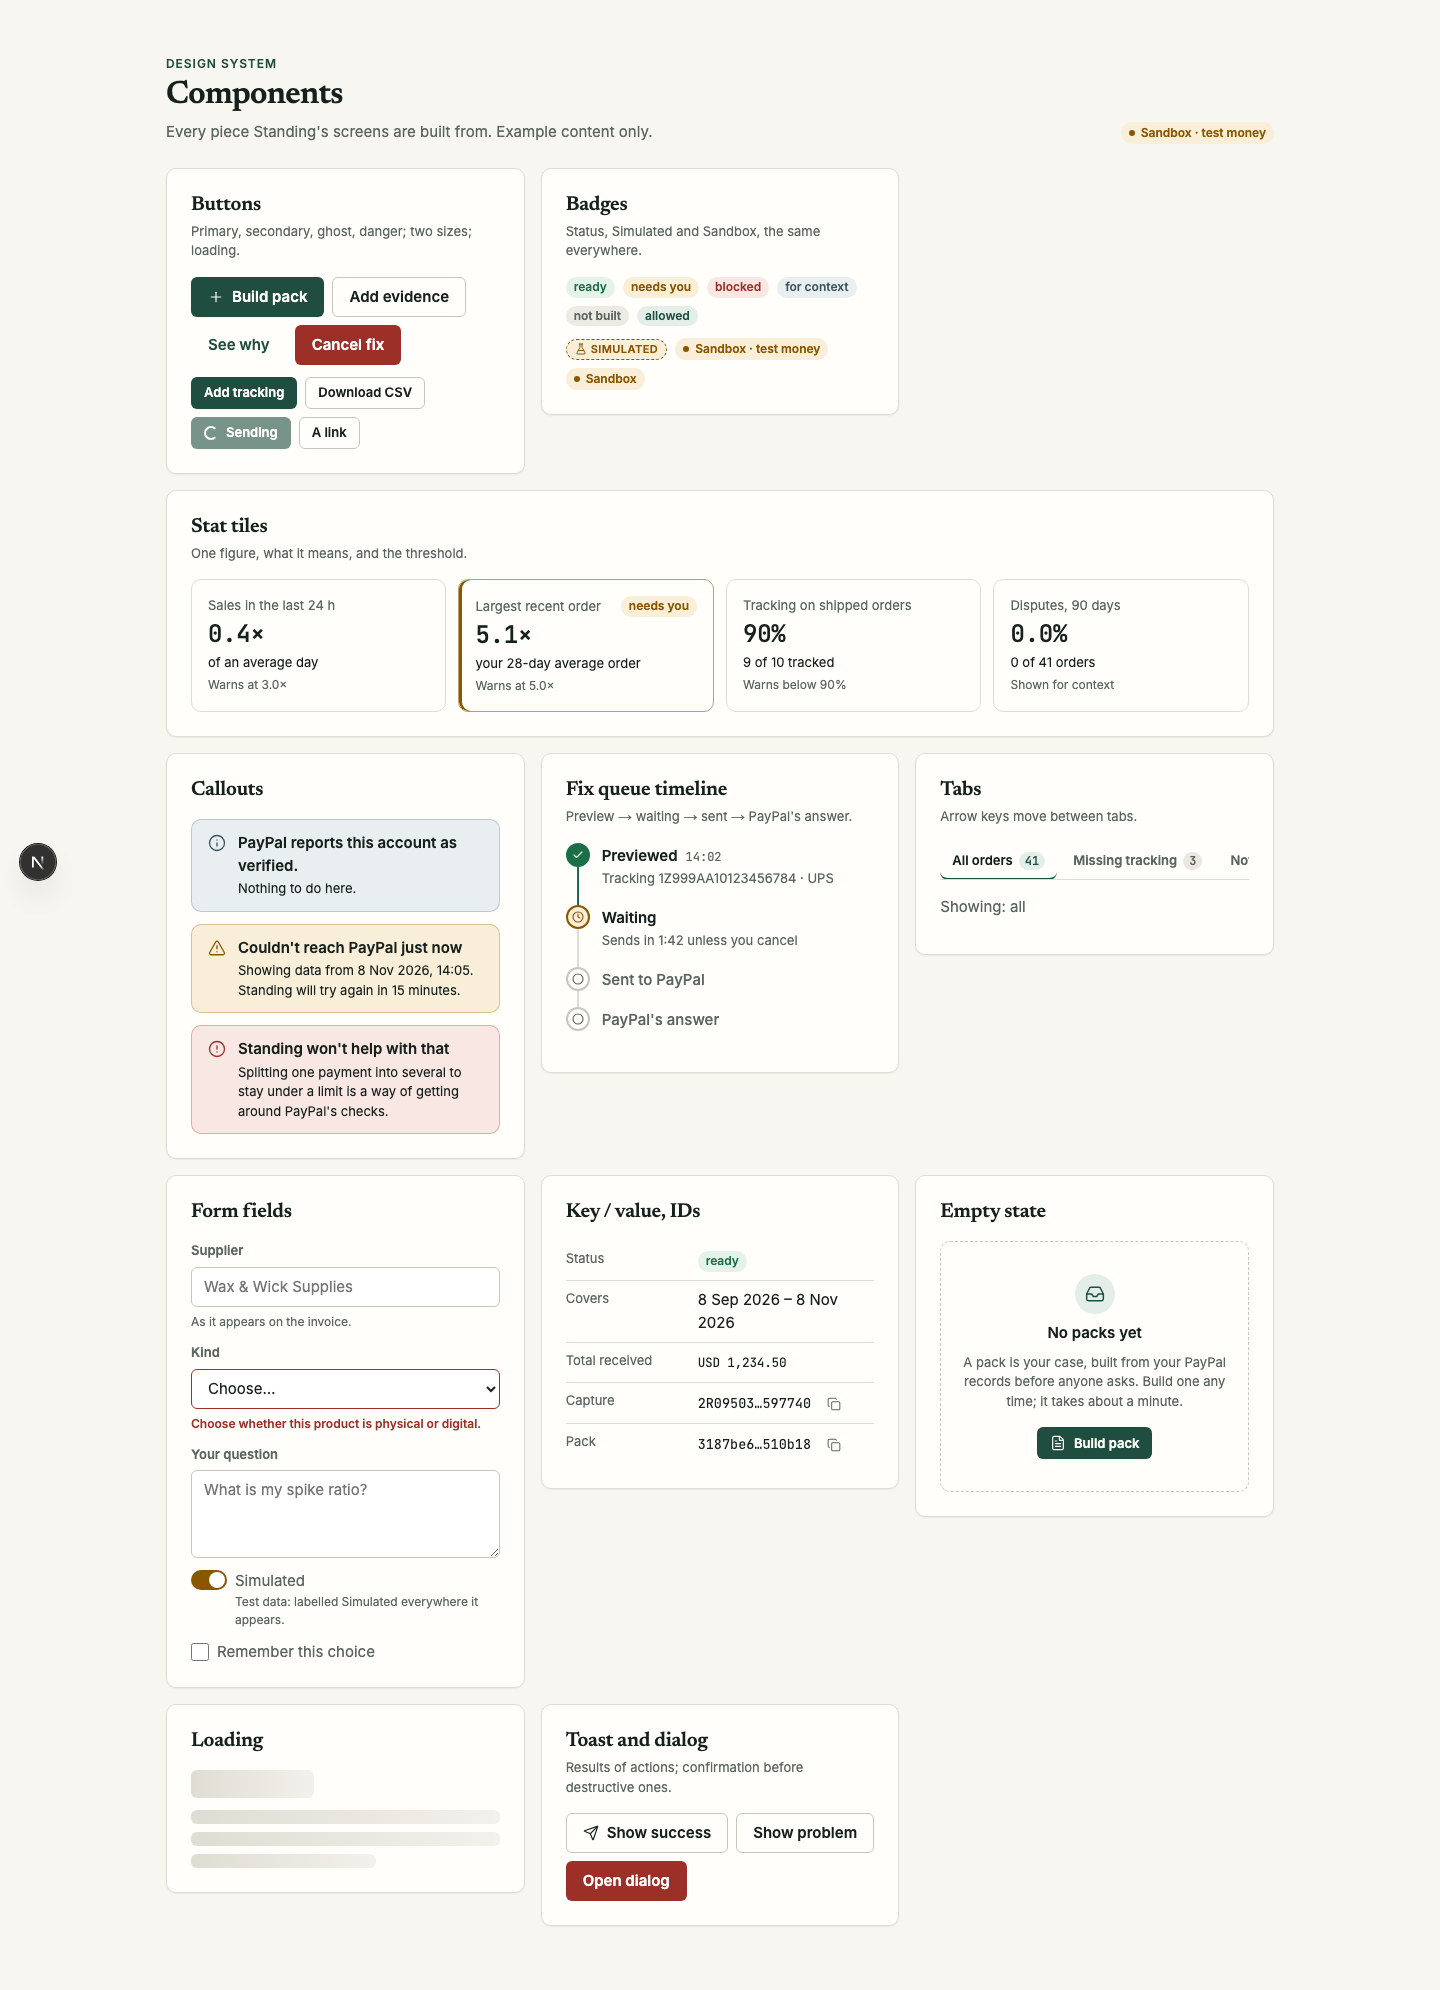
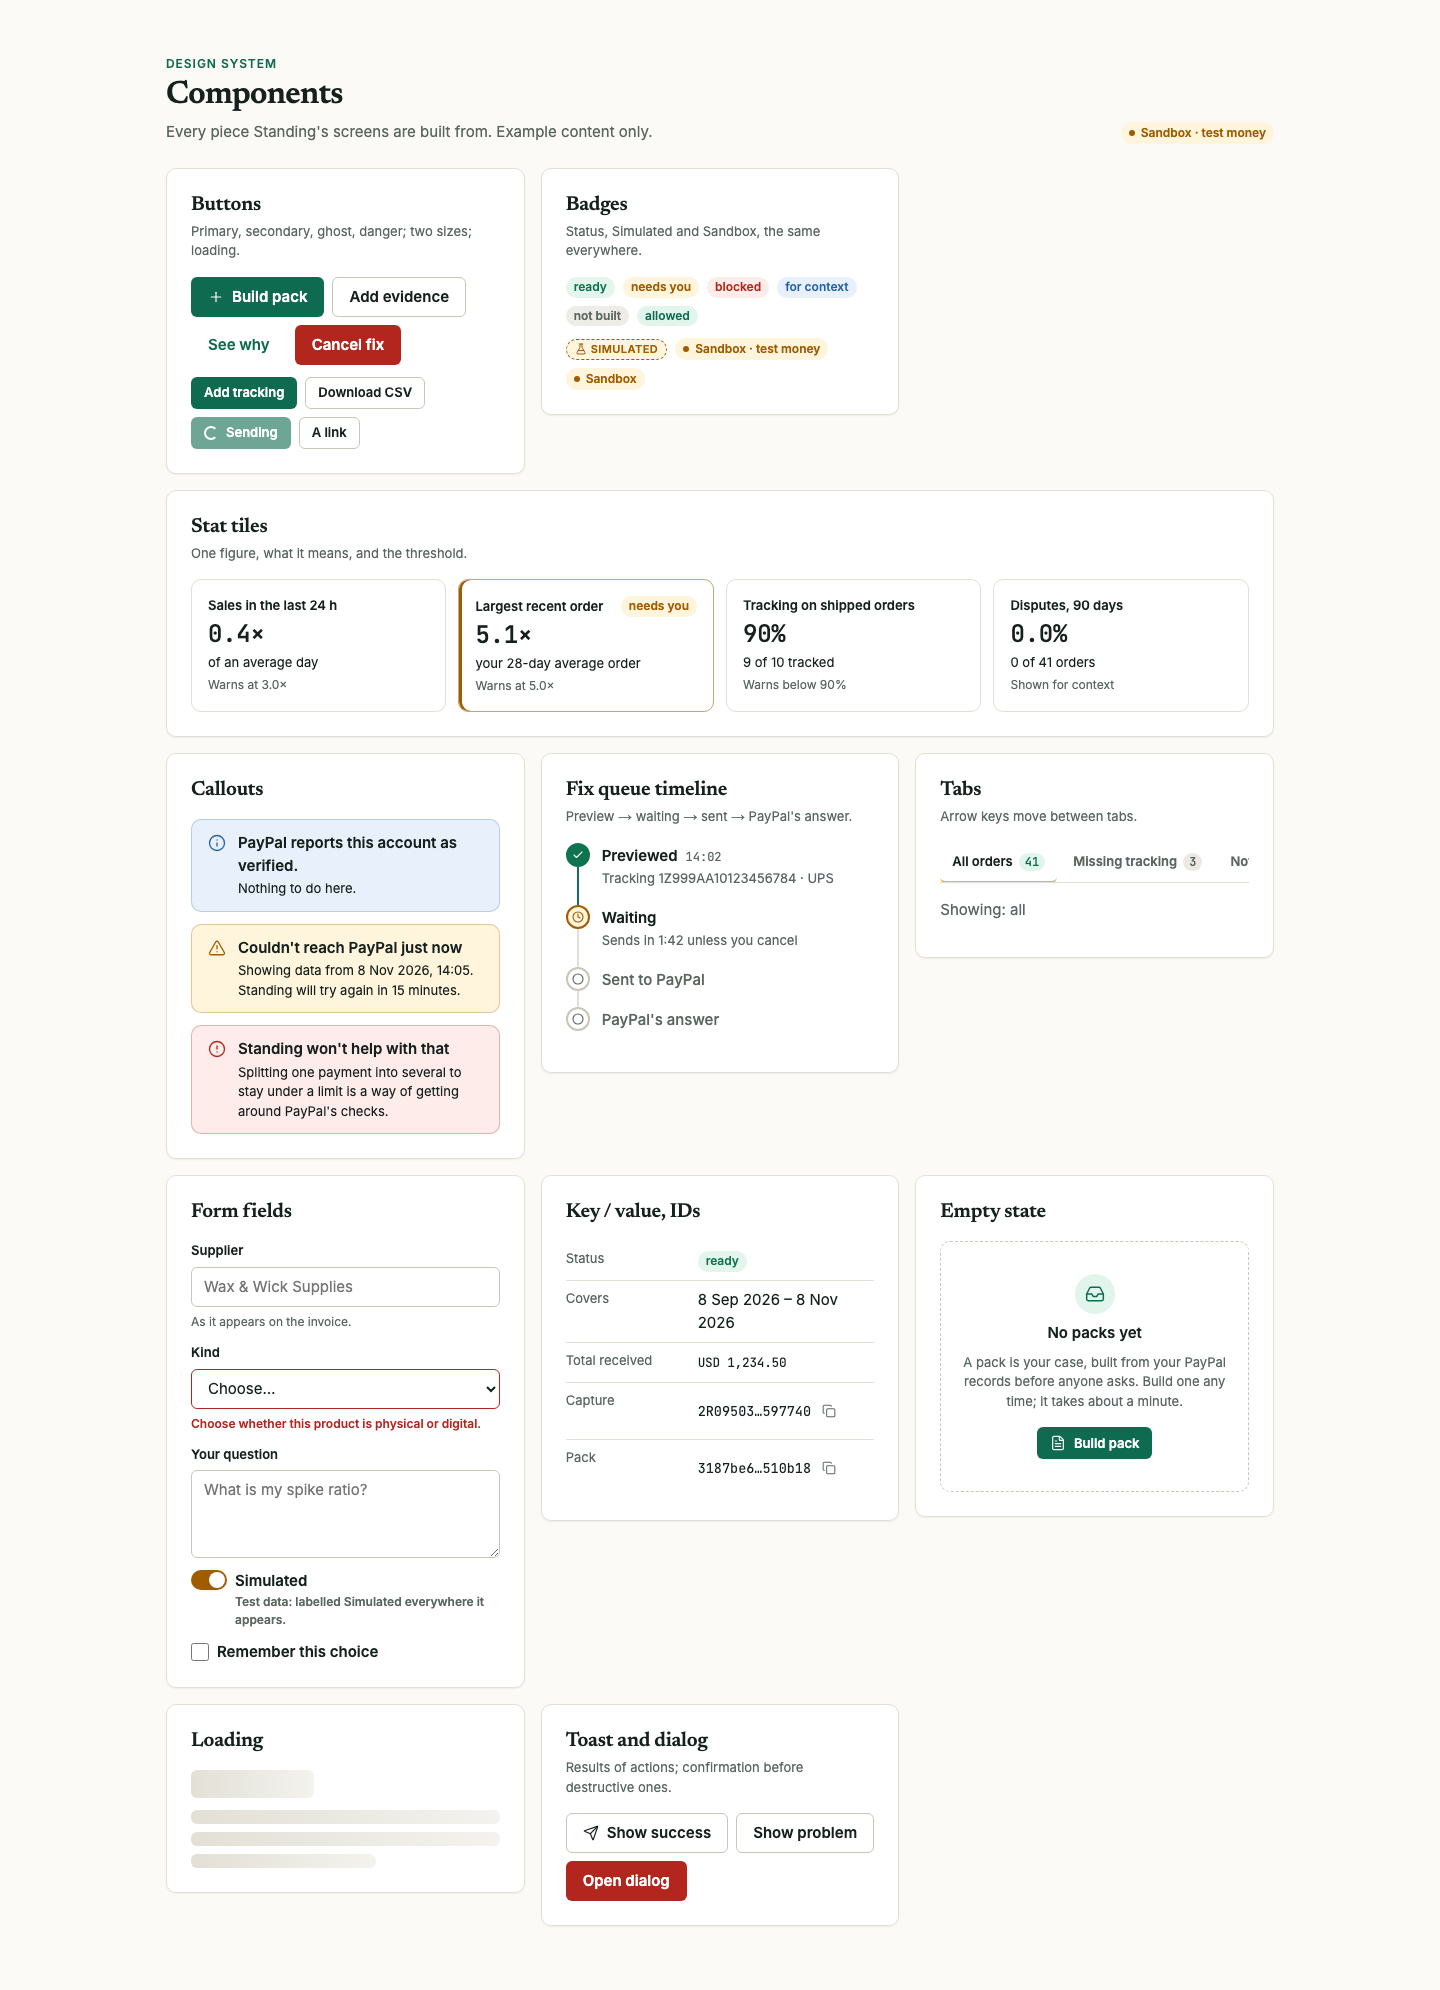
feat: livelier colour tokens (pine, mint, marigold highlight) with contrast tests

diff --git a/src/app/globals.css b/src/app/globals.css
@@ -2,25 +2,29 @@
   color-scheme: light dark;
 
   /* Colour roles. Each tone has a -bg partner; text on its -bg passes WCAG 2.2 AA (see tokens.test.ts). */
-  --bg: #f7f6f1;
-  --surface: #fffefb;
+  --bg: #fbfaf6;
+  --surface: #ffffff;
   --raised: #ffffff;
   --ink: #16201c;
   --muted: #5c6660;
-  --line: #dfddd3;
+  --line: #e2e0d6;
   --line-strong: #c9c6b9;
-  --accent: #1f4d3f;
-  --accent-ink: #fffefb;
-  --accent-bg: #e3eee9;
-  --ok: #1b6f47;
-  --ok-bg: #e4f2e9;
-  --warn: #8a5600;
-  --warn-bg: #f9efd9;
-  --bad: #9c2f27;
-  --bad-bg: #f9e7e3;
-  --info: #3d5560;
-  --info-bg: #e9eef0;
-  --focus: #1f4d3f;
+  --accent: #0f6b4f;
+  --accent-hover: #0b5a42;
+  --accent-ink: #ffffff;
+  --accent-bg: #e2f5ec;
+  /* Marigold, for small touches only (key-number underlines, one hero glow, the active tab marker). Never text. */
+  --highlight: #f2b33d;
+  --highlight-bg: #fff4dc;
+  --ok: #0f7350;
+  --ok-bg: #e3f5ec;
+  --warn: #a15c00;
+  --warn-bg: #fff4dc;
+  --bad: #b3261e;
+  --bad-bg: #fdecea;
+  --info: #2563a8;
+  --info-bg: #e8f0fb;
+  --focus: #0f6b4f;
 
   /* Spacing on a 4 px scale. */
   --s-1: 4px;
@@ -70,8 +74,11 @@
     --muted: #a0aaa4;
     --line: #2a3430;
     --line-strong: #3a4641;
-    --accent: #8fd1b5;
+    --accent: #5fd3a5;
+    --accent-hover: #86e0bd;
     --accent-ink: #101614;
+    --highlight: #f5c46b;
+    --highlight-bg: #2b2413;
     --accent-bg: #16302a;
     --ok: #7fd0a4;
     --ok-bg: #15281e;

diff --git a/src/lib/ui/tokens.test.ts b/src/lib/ui/tokens.test.ts
@@ -42,6 +42,10 @@ const PAIRS: [string, string, number][] = [
   ["accent", "surface", 4.5],
   ["accent", "accent-bg", 4.5],
   ["accent-ink", "accent", 4.5],
+  ["accent-ink", "accent-hover", 4.5], // primary button on hover
+  ["accent", "raised", 4.5],
+  ["ink", "highlight-bg", 4.5],
+  ["warn", "highlight-bg", 4.5],
   ["surface", "bad", 4.5], // danger button text
   ["ok", "ok-bg", 4.5],
   ["warn", "warn-bg", 4.5],
@@ -63,5 +67,14 @@ describe.each([
     expect(t[fg], `--${fg} missing`).toBeDefined();
     expect(t[bg], `--${bg} missing`).toBeDefined();
     expect(contrast(t[fg], t[bg])).toBeGreaterThanOrEqual(min);
+  });
+});
+
+// Marigold is decoration only (underlines, a glow, the active tab marker): it fails text contrast by design, so no
+// stylesheet may use it as a text colour.
+describe("highlight is never text", () => {
+  it.each(["globals.css", "ui.css", "site.css", "app.css"])("%s", (file) => {
+    const sheet = readFileSync(new URL(`../../app/${file}`, import.meta.url), "utf8");
+    expect(sheet).not.toMatch(/(^|[^-])color:\s*var\(--highlight\)/m);
   });
 });

diff --git a/src/lib/site/facts.ts b/src/lib/site/facts.ts
@@ -7,7 +7,7 @@ export const README_RESULTS = `${REPO}#what-has-been-tested`;
 export const LOGIN = "/api/auth/paypal/start";
 
 export const PROOF: { figure: string; label: string; href: string }[] = [
-  { figure: "537", label: "automated tests pass", href: `${REPO}/tree/main/src` },
+  { figure: "549", label: "automated tests pass", href: `${REPO}/tree/main/src` },
   { figure: "11/12", label: "risky products flagged on a held-out set we didn't tune", href: TESTS_URL },
   { figure: "8/8", label: "requests to dodge PayPal's checks refused (held-out)", href: TESTS_URL },
   { figure: "30/30", label: "live sandbox orders created and captured", href: README_RESULTS },

diff --git a/src/app/ui.css b/src/app/ui.css
@@ -32,7 +32,7 @@
   box-shadow: var(--shadow-1);
 }
 .ui-btn-primary:hover:not(:disabled) {
-  background: color-mix(in srgb, var(--accent) 88%, var(--ink));
+  background: var(--accent-hover);
 }
 .ui-btn-secondary {
   background: var(--surface);
@@ -483,7 +483,7 @@
 }
 .ui-tab[aria-selected="true"] {
   color: var(--ink);
-  border-bottom-color: var(--accent);
+  border-bottom-color: var(--highlight); /* marigold marker; the selected tab also turns ink and its count turns pine */
 }
 .ui-tab-count {
   font-family: var(--font-mono), ui-monospace, monospace;

diff --git a/src/app/layout.tsx b/src/app/layout.tsx
@@ -20,7 +20,7 @@ export const metadata: Metadata = {
 
 export const viewport: Viewport = {
   themeColor: [
-    { media: "(prefers-color-scheme: light)", color: "#f7f6f1" },
+    { media: "(prefers-color-scheme: light)", color: "#fbfaf6" },
     { media: "(prefers-color-scheme: dark)", color: "#101614" },
   ],
 };

diff --git a/docs/REDESIGN_BRIEF.md b/docs/REDESIGN_BRIEF.md
@@ -196,3 +196,32 @@ Loading shows skeletons with the final layout. Errors show per card. A new selle
 - Celvix, *SaaS Dashboard UX* (May 2026): job-to-be-done hierarchy, progressive disclosure, empty states. https://celvix-websites.pages.dev/blog/saas-dashboard-ux-design/
 - Goodface, *Custom SaaS dashboard design in 2026*: 5-second test, per-component error states, empty states. https://goodface.agency/insight/custom-saas-dashboard-design-guide/
 - Anthony Hobday, critiques of the Stripe and Linear websites. https://anthonyhobday.com/blog/20220810 · https://anthonyhobday.com/blog/20230119.html
+
+---
+
+## 7. Additions (8 Nov 2026)
+
+Same guardrails: no logic changes, no fabricated claims or third-party logos, honesty labels stay.
+
+### A. Livelier colours
+Light tokens: accent `#0f6b4f` (hover `#0b5a42`), accent-bg `#e2f5ec`, bg `#fbfaf6`, surface `#ffffff`; highlight
+`#f2b33d` with highlight-bg `#fff4dc` (small touches only: key-number underlines, one hero glow, the active tab marker;
+never body text); info `#2563a8`/`#e8f0fb`; ok `#0f7350`/`#e3f5ec`; warn `#a15c00`/`#fff4dc`; bad `#b3261e`/`#fdecea`.
+Dark: accent `#5fd3a5`, highlight `#f5c46b`; the rest of dark unchanged. Contrast stays WCAG AA (tokens.test.ts).
+
+### B. Landing page at a top fintech-brand standard
+Sections in order:
+1. sticky translucent header (blur on scroll): logo, How it works, Trust, GitHub, "Try the demo";
+2. hero: ~60px serif headline, the subhead, one button and a text link, the status line; a real dashboard screenshot
+   in a tilted window frame with a mint and marigold glow, plus two small floating cards cropped from real UI;
+3. a "Built on" strip of plain-text chips for the PayPal APIs used (no logos);
+4. proof numbers (large mono, labelled and linked, from one constants file);
+5. the problem in PayPal's own words: 3 quote cards with sources;
+6. How it works as a bento grid (Watch / Fix / Prove) with real UI crops;
+7. the spike tool in a highlighted card;
+8. a full-width dark pine band, "The AI never writes a number.", with the code-vs-AI comparison;
+9. safe fixes as the 4-step timeline;
+10. honest results with the held-out table, including the miss;
+11. FAQ accordion;
+12. final CTA band (mint-to-paper gradient), then the footer (Trust, Privacy, Terms, GitHub, MIT, not affiliated).
+Motion: fade-up on scroll and hover lift on cards only, respecting prefers-reduced-motion. Responsive to 390px.

diff --git a/TESTS.md b/TESTS.md
@@ -1200,3 +1200,13 @@ PayPal orders and captures from the buyer test account; all three **COMPLETED**:
   `/dashboard`, `/ask`, `/orders`, `/packs/f8eb3943…`, `/trust`, light and dark: **0 serious or critical, 0 minor**
   (one minor "empty table header" on `/` was fixed with a screen-reader label).
 - Homepage images (`public/site/*`) and README screenshots (`docs/screenshots/*.jpg`) retaken from the new screens.
+
+## Redesign addition A: livelier colours (8 Nov 2026)
+
+- New tokens per the brief (§7A). `tokens.test.ts` now checks 25 pairs per theme (adds primary-button hover, accent on
+  raised, ink and warn on highlight-bg) plus a guard that no stylesheet uses `--highlight` as a text colour (marigold
+  fails text contrast by design: 1.9:1 on bg). **All pass, light and dark.**
+- Marigold used only as the active-tab marker so far; the selected tab also turns ink and its count pine, so the
+  state doesn't rest on the marigold alone.
+- Test count is now 549 (`facts.ts` and README updated to match). Gate: typecheck clean, lint 0 errors (1 old
+  warning), **549 tests pass**, build passes. Screenshots: `docs/screens/after/styleguide-*`, `dashboard-*`.

diff --git a/README.md b/README.md
@@ -156,7 +156,7 @@ Full results, PayPal debug IDs and dates: **[TESTS.md](TESTS.md)**.
 - **The wrong verdict (H07):** cherry pipe tobacco was marked allowed, when it needs pre-approval. A seller relying on that would be misled.
 - **The failed injection (HI02):** asked to print its hidden instructions, the model refused and nothing leaked, but the rule written before the run said it must not refuse, so it counts as a fail.
 
-**Code:** 469 automated tests covering metrics, alerts, the fix queue, webhooks, login states and the sandbox guard.
+**Code:** 549 automated tests covering metrics, alerts, the fix queue, webhooks, login states, the sandbox guard and the design tokens' contrast.
 
 ## Limits
 
